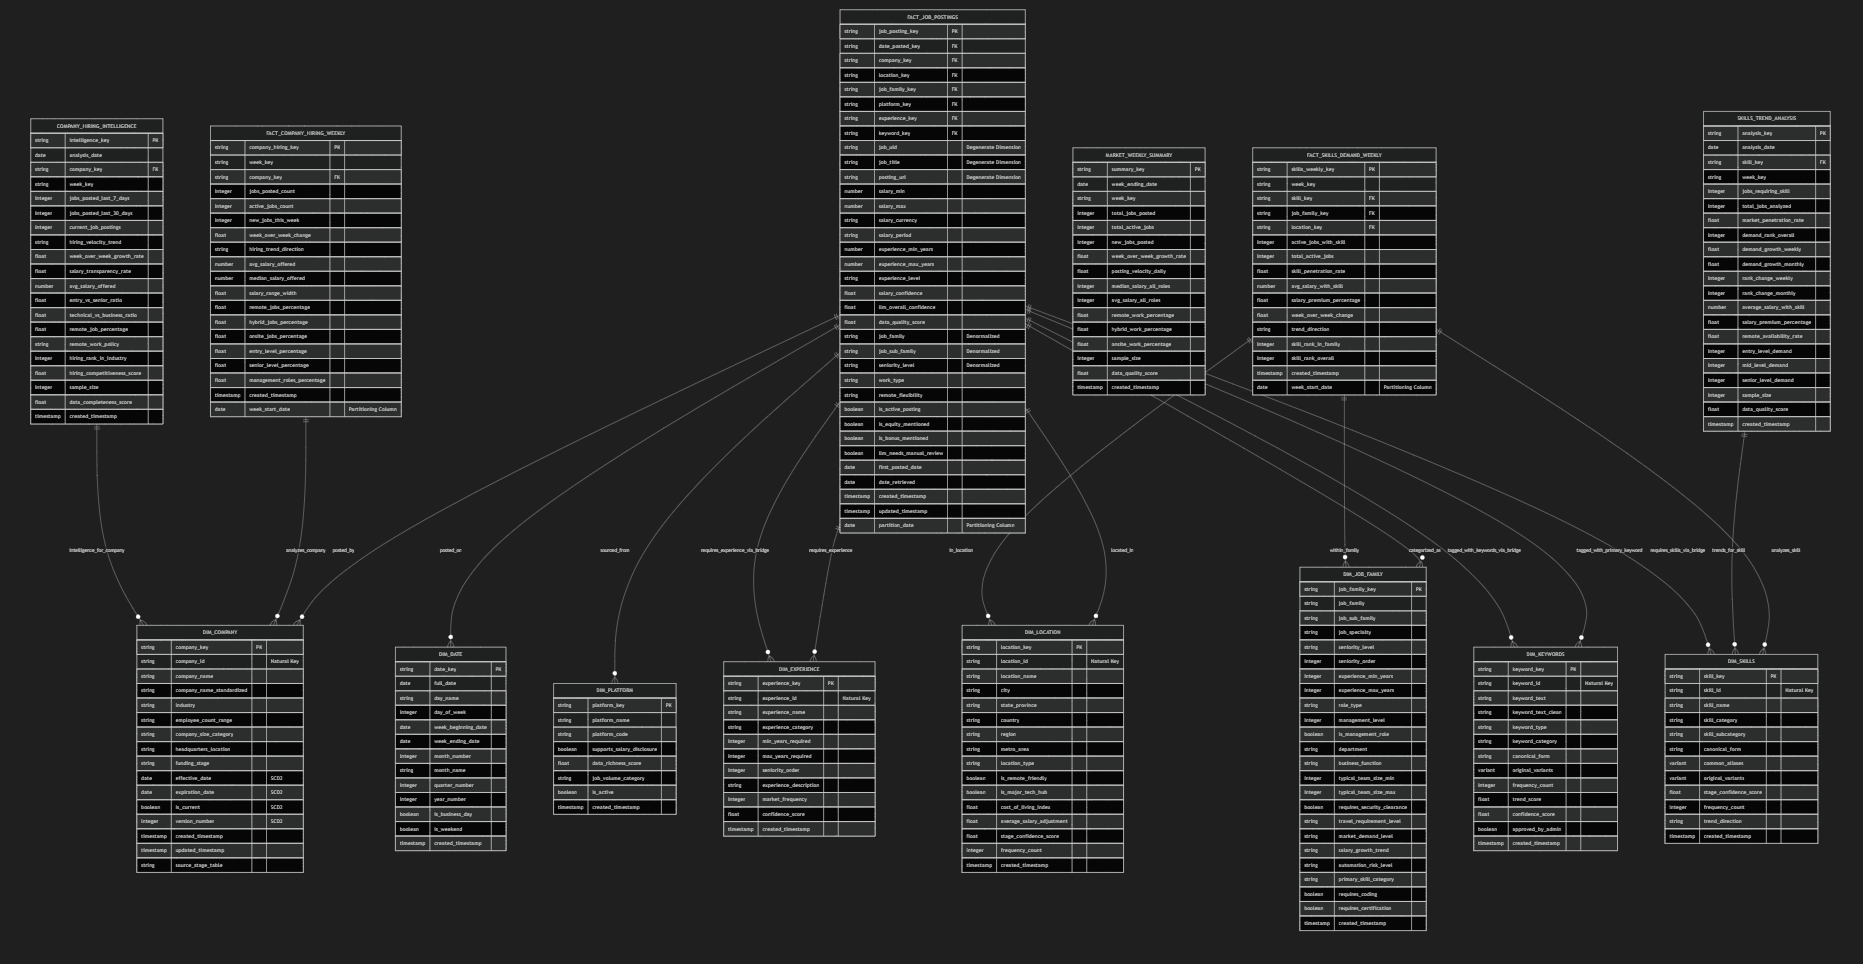
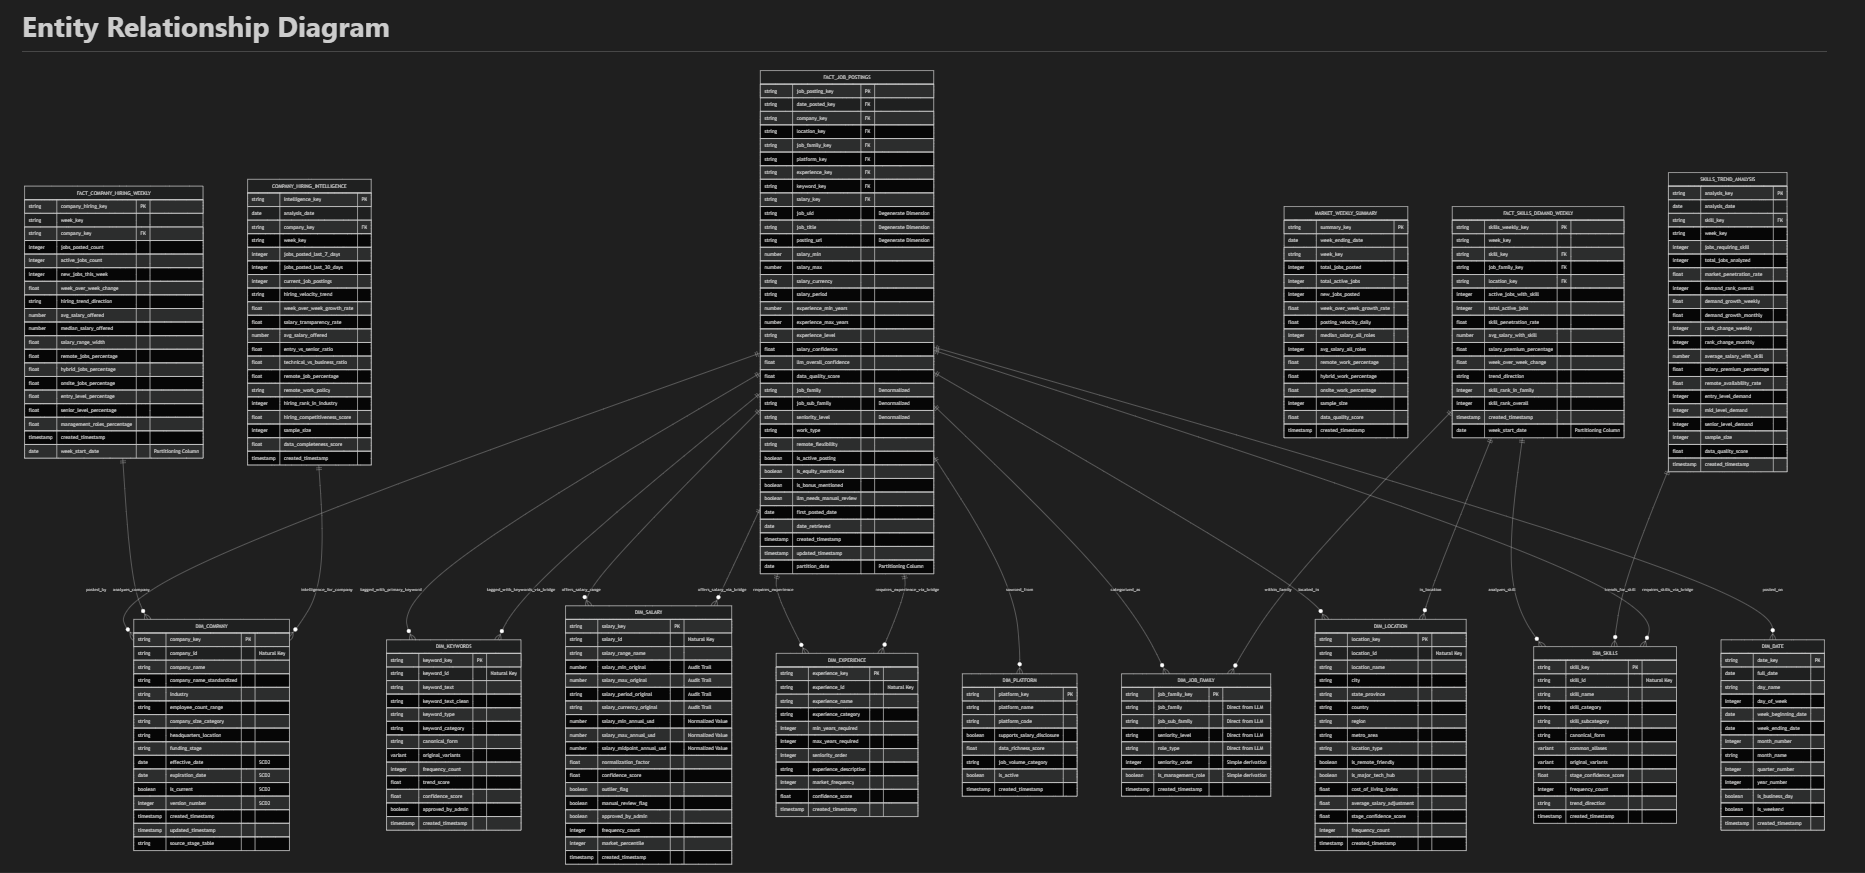
feat: implement analytics_dim_salary dimension table and asset
- Add analytics_dim_salary.sql table definition with normalized salary ranges
- Implement analytics_dim_salary asset in analytics_dimensions.py
- Include market intelligence fields (percentiles, confidence scores, outlier flags)
- Add complete audit trail from original to normalized salary values
- Update __init__.py to export new analytics_dim_salary asset
- Support for salary-based analytics with clustering on salary_midpoint_annual_usd
- Integrates with stage_salary_normalized and stage_job_salary_bridge tables
- updated erd document to reflect changes to dimensional model design

diff --git a/pipeline/dagster_betterjobs/dagster_betterjobs/assets/analytics_dimensions.py b/pipeline/dagster_betterjobs/dagster_betterjobs/assets/analytics_dimensions.py
@@ -1681,6 +1681,200 @@ def analytics_dim_experience(context: AssetExecutionContext, snowflake: Snowflak
 
 
 @asset(
+    deps=["stage_salary_normalized"],
+    description="Create salary dimension with normalized ranges and market intelligence",
+    group_name="3a_analytics_dimensions",
+    kinds={"snowflake", "SQL"}
+)
+def analytics_dim_salary(context: AssetExecutionContext, snowflake: SnowflakeResource) -> Dict[str, Any]:
+    """
+    Build salary dimension from STAGE.SALARY_NORMALIZED with market intelligence.
+
+    This asset creates a dimension table containing normalized salary ranges with
+    quality indicators, market percentiles, and audit trail information. All salary
+    values are converted to annual USD for consistent analysis.
+
+    Processing:
+    - Generate surrogate keys for each salary range
+    - Map normalized salary fields to dimension structure
+    - Include quality indicators and market percentile data
+    - Handle outlier flags and manual review requirements
+    - Optimize for salary-based analytical queries
+
+    Returns:
+        Dict containing execution results and salary statistics
+    """
+
+    # Ensure the table exists using Schema-as-Code pattern
+    table_name = ensure_object_exists("tables/analytics_dim_salary.sql", snowflake, context)
+
+    with snowflake.get_connection() as conn:
+        cursor = conn.cursor()
+        try:
+            context.log.info("🔄 Starting salary dimension creation...")
+
+            # Clear existing data for fresh population
+            context.log.info("🧹 Clearing existing salary dimension data")
+            cursor.execute(f"DELETE FROM {table_name}")
+
+            # Insert salary dimension data
+            context.log.info("📊 Populating salary dimension from normalized salary data")
+
+            insert_sql = f"""
+            INSERT INTO {table_name} (
+                SALARY_KEY,
+                SALARY_ID,
+                SALARY_RANGE_NAME,
+                SALARY_MIN_ORIGINAL,
+                SALARY_MAX_ORIGINAL,
+                SALARY_PERIOD_ORIGINAL,
+                SALARY_CURRENCY_ORIGINAL,
+                SALARY_MIN_ANNUAL_USD,
+                SALARY_MAX_ANNUAL_USD,
+                SALARY_MIDPOINT_ANNUAL_USD,
+                NORMALIZATION_FACTOR,
+                CONFIDENCE_SCORE,
+                OUTLIER_FLAG,
+                MANUAL_REVIEW_FLAG,
+                APPROVED_BY_ADMIN,
+                FREQUENCY_COUNT,
+                MARKET_PERCENTILE,
+                CREATED_TIMESTAMP
+            )
+            SELECT
+                'SAL_' || SALARY_ID as SALARY_KEY,
+                SALARY_ID,
+                SALARY_RANGE_NAME,
+                SALARY_MIN_ORIGINAL,
+                SALARY_MAX_ORIGINAL,
+                SALARY_PERIOD_ORIGINAL,
+                SALARY_CURRENCY_ORIGINAL,
+                SALARY_MIN_ANNUAL_USD,
+                SALARY_MAX_ANNUAL_USD,
+                SALARY_MIDPOINT_ANNUAL_USD,
+                NORMALIZATION_FACTOR,
+                CONFIDENCE_SCORE,
+                OUTLIER_FLAG,
+                MANUAL_REVIEW_FLAG,
+                APPROVED_BY_ADMIN,
+                FREQUENCY_COUNT,
+                MARKET_PERCENTILE,
+                CURRENT_TIMESTAMP as CREATED_TIMESTAMP
+            FROM BETTERJOBS_DB.STAGE.SALARY_NORMALIZED
+            WHERE CONFIDENCE_SCORE >= 0.5
+              AND SALARY_MIN_ANNUAL_USD > 0
+              AND SALARY_MAX_ANNUAL_USD > 0
+              AND SALARY_MIN_ANNUAL_USD <= SALARY_MAX_ANNUAL_USD
+            ORDER BY SALARY_MIDPOINT_ANNUAL_USD
+            """
+
+            cursor.execute(insert_sql)
+            rows_inserted = cursor.rowcount
+
+            context.log.info(f"✅ Inserted {rows_inserted:,} salary dimension records")
+
+            # Get dimension statistics
+            cursor.execute(f"""
+            SELECT
+                COUNT(*) as total_salaries,
+                COUNT(CASE WHEN OUTLIER_FLAG = TRUE THEN 1 END) as outlier_count,
+                COUNT(CASE WHEN MANUAL_REVIEW_FLAG = TRUE THEN 1 END) as manual_review_count,
+                COUNT(CASE WHEN APPROVED_BY_ADMIN = TRUE THEN 1 END) as admin_approved_count,
+                COUNT(CASE WHEN CONFIDENCE_SCORE >= 0.9 THEN 1 END) as high_confidence_count,
+                AVG(CONFIDENCE_SCORE) as avg_confidence,
+                MIN(SALARY_MIDPOINT_ANNUAL_USD) as min_salary,
+                MAX(SALARY_MIDPOINT_ANNUAL_USD) as max_salary,
+                AVG(SALARY_MIDPOINT_ANNUAL_USD) as avg_salary,
+                COUNT(DISTINCT SALARY_PERIOD_ORIGINAL) as unique_periods,
+                COUNT(DISTINCT SALARY_CURRENCY_ORIGINAL) as unique_currencies,
+                SUM(FREQUENCY_COUNT) as total_frequency
+            FROM {table_name}
+            """)
+
+            stats = cursor.fetchone()
+
+            # Get period distribution
+            cursor.execute(f"""
+            SELECT
+                SALARY_PERIOD_ORIGINAL,
+                COUNT(*) as count,
+                AVG(SALARY_MIDPOINT_ANNUAL_USD) as avg_salary,
+                AVG(CONFIDENCE_SCORE) as avg_confidence
+            FROM {table_name}
+            GROUP BY SALARY_PERIOD_ORIGINAL
+            ORDER BY count DESC
+            """)
+
+            period_distribution = cursor.fetchall()
+
+            context.log.info(f"""
+            🎯 Salary Dimension Creation Complete:
+            • Total Salary Ranges: {stats[0]:,}
+            • Outliers: {stats[1]:,}
+            • Manual Review Needed: {stats[2]:,}
+            • Admin Approved: {stats[3]:,}
+            • High Confidence (≥90%): {stats[4]:,}
+            • Average Confidence: {stats[5]:.3f}
+            • Salary Range: ${stats[6]:,.0f} - ${stats[7]:,.0f}
+            • Average Salary: ${stats[8]:,.0f}
+            • Unique Periods: {stats[9]}
+            • Unique Currencies: {stats[10]}
+            • Total Market Frequency: {stats[11]:,}
+            """)
+
+            # Add metadata for Dagster UI
+            context.add_output_metadata({
+                "total_salaries": MetadataValue.int(stats[0]),
+                "outlier_count": MetadataValue.int(stats[1]),
+                "manual_review_count": MetadataValue.int(stats[2]),
+                "admin_approved_count": MetadataValue.int(stats[3]),
+                "high_confidence_count": MetadataValue.int(stats[4]),
+                "avg_confidence": MetadataValue.float(stats[5]),
+                "salary_range": MetadataValue.text(f"${stats[6]:,.0f} - ${stats[7]:,.0f}"),
+                "avg_salary": MetadataValue.int(int(stats[8])),
+                "unique_periods": MetadataValue.int(stats[9]),
+                "unique_currencies": MetadataValue.int(stats[10]),
+                "total_frequency": MetadataValue.int(stats[11])
+            })
+
+            return {
+                "status": "success",
+                "table_name": table_name,
+                "rows_inserted": rows_inserted,
+                "statistics": {
+                    "total_salaries": stats[0],
+                    "outlier_count": stats[1],
+                    "manual_review_count": stats[2],
+                    "admin_approved_count": stats[3],
+                    "high_confidence_count": stats[4],
+                    "avg_confidence": round(stats[5], 3),
+                    "min_salary": int(stats[6]),
+                    "max_salary": int(stats[7]),
+                    "avg_salary": int(stats[8]),
+                    "unique_periods": stats[9],
+                    "unique_currencies": stats[10],
+                    "total_frequency": stats[11]
+                },
+                "period_distribution": [
+                    {
+                        "period": row[0],
+                        "count": row[1],
+                        "avg_salary": int(row[2]) if row[2] else 0,
+                        "avg_confidence": round(row[3], 3) if row[3] else 0
+                    }
+                    for row in period_distribution
+                ]
+            }
+
+        except Exception as e:
+            context.log.error(f"❌ Salary dimension creation failed: {str(e)}")
+            raise
+
+        finally:
+            cursor.close()
+
+
+@asset(
     deps=["stage_keywords_normalized"],
     description="Create keywords taxonomy dimension table",
     group_name="3a_analytics_dimensions",

diff --git a/pipeline/dagster_betterjobs/dagster_betterjobs/assets/__init__.py b/pipeline/dagster_betterjobs/dagster_betterjobs/assets/__init__.py
@@ -91,6 +91,7 @@ from dagster_betterjobs.assets.analytics_dimensions import (
     analytics_dim_job_family,
     analytics_dim_platform,
     analytics_dim_skills,
+    analytics_dim_salary,
     analytics_dim_experience,
     analytics_dim_keywords
 )
@@ -178,6 +179,7 @@ __all__ = [
     "analytics_dim_job_family",
     "analytics_dim_platform",
     "analytics_dim_skills",
+    "analytics_dim_salary",
     "analytics_dim_experience",
     "analytics_dim_keywords",
     # Analytics layer assets - Phase 2: Facts

diff --git a/analytics_dimensional_model_erd.md b/analytics_dimensional_model_erd.md
@@ -3,7 +3,7 @@
 ## Overview
 This ERD represents the complete Analytics dimensional model for the job market intelligence platform. The model follows a star schema design with fact tables at the center connected to dimension tables, plus specialized aggregate tables for pre-calculated metrics.
 
-## Mermaid ERD
+## Entity Relationship Diagram
 
 ```mermaid
 erDiagram
@@ -130,6 +130,27 @@ erDiagram
         timestamp created_timestamp
     }
 
+    DIM_SALARY {
+        string salary_key PK
+        string salary_id "Natural Key"
+        string salary_range_name
+        number salary_min_original "Audit Trail"
+        number salary_max_original "Audit Trail"
+        string salary_period_original "Audit Trail"
+        string salary_currency_original "Audit Trail"
+        number salary_min_annual_usd "Normalized Value"
+        number salary_max_annual_usd "Normalized Value"
+        number salary_midpoint_annual_usd "Normalized Value"
+        float normalization_factor
+        float confidence_score
+        boolean outlier_flag
+        boolean manual_review_flag
+        boolean approved_by_admin
+        integer frequency_count
+        integer market_percentile
+        timestamp created_timestamp
+    }
+
     %% === MAIN FACT TABLE ===
 
     FACT_JOB_POSTINGS {
@@ -141,6 +162,7 @@ erDiagram
         string platform_key FK
         string experience_key FK
         string keyword_key FK
+        string salary_key FK
         string job_uid "Degenerate Dimension"
         string job_title "Degenerate Dimension"
         string posting_url "Degenerate Dimension"
@@ -291,6 +313,7 @@ erDiagram
     FACT_JOB_POSTINGS ||--o{ DIM_PLATFORM : "sourced_from"
     FACT_JOB_POSTINGS ||--o{ DIM_EXPERIENCE : "requires_experience"
     FACT_JOB_POSTINGS ||--o{ DIM_KEYWORDS : "tagged_with_primary_keyword"
+    FACT_JOB_POSTINGS ||--o{ DIM_SALARY : "offers_salary_range"
 
     %% Skills Fact Table Relationships
     FACT_SKILLS_DEMAND_WEEKLY ||--o{ DIM_SKILLS : "analyzes_skill"
@@ -307,6 +330,9 @@ erDiagram
     %% Skills Bridge Relationship (Many-to-Many through STAGE layer)
     FACT_JOB_POSTINGS ||--o{ DIM_SKILLS : "requires_skills_via_bridge"
 
+    %% Salary Bridge Relationship (Many-to-Many through STAGE layer)
+    FACT_JOB_POSTINGS ||--o{ DIM_SALARY : "offers_salary_via_bridge"
+
     %% Experience Bridge Relationship (Many-to-Many through STAGE layer)
     FACT_JOB_POSTINGS ||--o{ DIM_EXPERIENCE : "requires_experience_via_bridge"
 
@@ -318,7 +344,7 @@ erDiagram
 
 ### Star Schema Architecture
 - **Central Fact Table**: `FACT_JOB_POSTINGS` serves as the primary fact table containing individual job posting records
-- **Dimension Tables**: Eight main dimensions providing context and hierarchy for analysis (Date, Company, Location, Job Family, Platform, Skills, Experience, Keywords)
+- **Dimension Tables**: Nine main dimensions providing context and hierarchy for analysis (Date, Company, Location, Job Family, Platform, Skills, Salary, Experience, Keywords)
 - **Specialized Fact Tables**: Pre-aggregated tables for specific analytical domains (skills, company hiring)
 
 ### Data Granularity
@@ -329,15 +355,17 @@ erDiagram
 
 ### Key Relationships
 1. **Job Postings ↔ Skills**: Many-to-many relationship through `STAGE.JOB_SKILLS_BRIDGE`
-2. **Job Postings ↔ Experience**: Many-to-many relationship through `STAGE.JOB_EXPERIENCE_BRIDGE`
-3. **Job Postings ↔ Keywords**: Many-to-many relationship through `STAGE.JOB_KEYWORDS_BRIDGE`
-4. **Company SCD Type 2**: Historical tracking of company changes over time
-5. **Time-based Partitioning**: All fact tables partitioned by date for performance
+2. **Job Postings ↔ Salary**: Many-to-many relationship through `STAGE.JOB_SALARY_BRIDGE`
+3. **Job Postings ↔ Experience**: Many-to-many relationship through `STAGE.JOB_EXPERIENCE_BRIDGE`
+4. **Job Postings ↔ Keywords**: Many-to-many relationship through `STAGE.JOB_KEYWORDS_BRIDGE`
+5. **Company SCD Type 2**: Historical tracking of company changes over time
+6. **Time-based Partitioning**: All fact tables partitioned by date for performance
 
 ### Business Intelligence Features
 - **Pre-calculated Metrics**: Aggregate tables for dashboard performance
 - **Trend Analysis**: Week-over-week and month-over-month calculations
 - **Market Intelligence**: Skills demand, salary analysis, and company hiring patterns
+- **Salary Intelligence**: Normalized salary ranges, market percentiles, confidence scoring, and outlier detection with full audit trail
 - **Experience Analytics**: Seniority level analysis, experience requirement trends, and career progression insights
 - **Keyword Intelligence**: Job description analysis, industry terminology trends, and content categorization
 - **Data Quality Tracking**: Confidence scores and completeness metrics throughout
